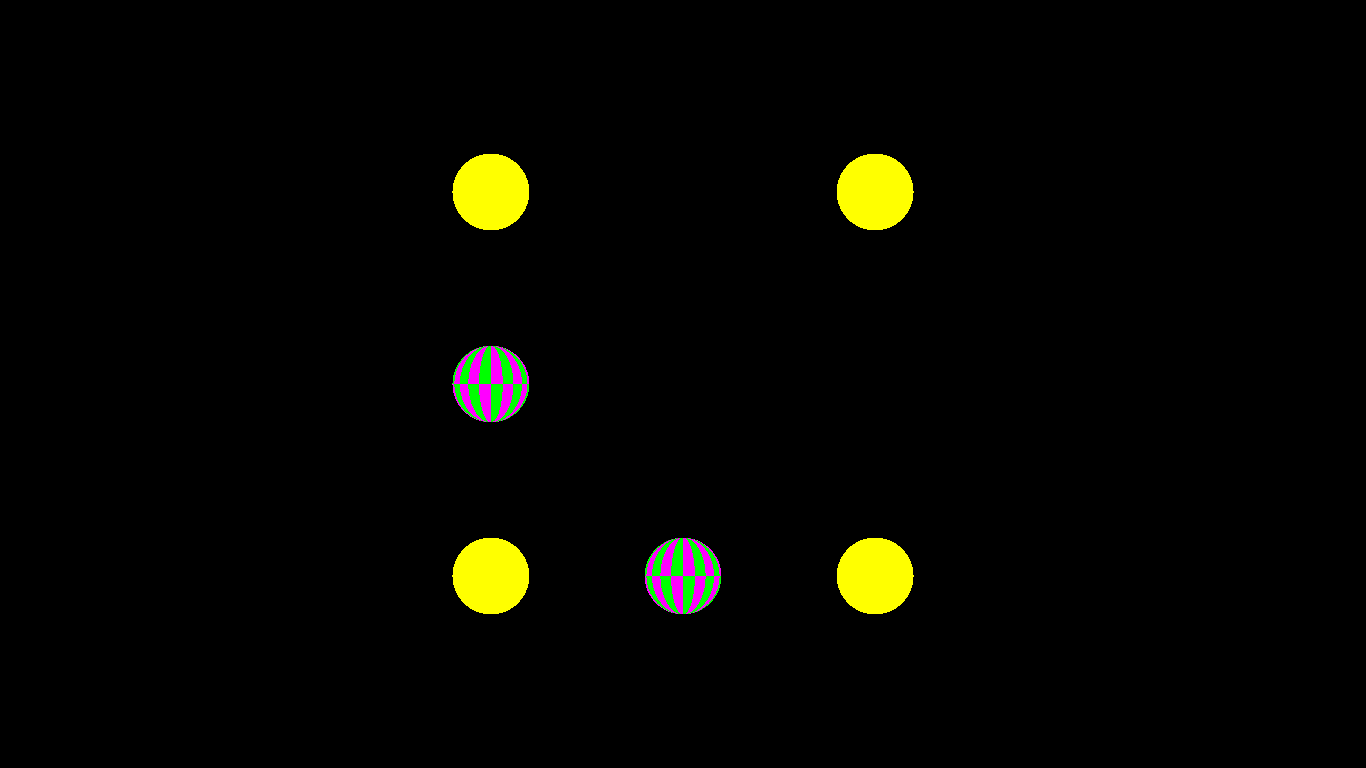
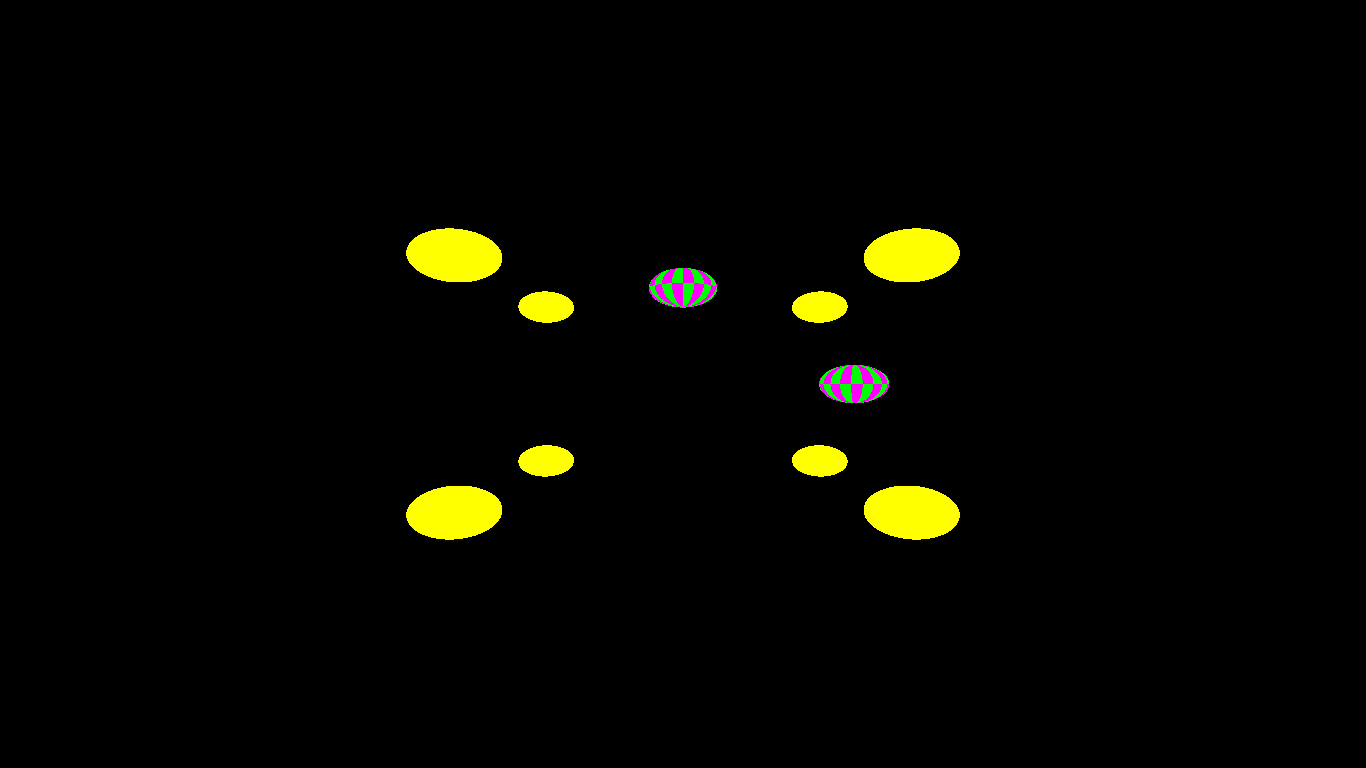
Actual implementation of fireallrays using Renderer class

diff --git a/Myraytracer/Parameters.cs b/Myraytracer/Parameters.cs
@@ -57,7 +57,7 @@ namespace Myraytracer
         public int Height { get; private set; } = 768;
         public float AngleDeg { get; private set; }
         public Camera Camera { get; private set; } = 
-            new PerspectiveProjection(16/9f, transform: Transformation.Translation(new Vec(-1, 0,0)));
+            new PerspectiveProjection(transform: Transformation.Translation(new Vec(-1, 0,0)));
         public string OutputLdrFileName { get; private set; } = "Demo.png";
         public string OutputPfmFileName { get; private set; } = "Demo.pfm";
 
@@ -119,11 +119,11 @@ namespace Myraytracer
                     var input = args[1].Trim();
                     if (input.Equals("PerspectiveProjection", StringComparison.OrdinalIgnoreCase))
                     {
-                        Camera = new PerspectiveProjection(transform: Transformation.Translation(new Vec(-1, 0,0))*Transformation.RotationX(value));
+                        Camera = new PerspectiveProjection(transform: Transformation.RotationX(value) * Transformation.Translation(new Vec(-1, 0,0)));
                     }
                     else if (input.Equals("OrthogonalProjection", StringComparison.OrdinalIgnoreCase))
                     {
-                        Camera = new OrthogonalProjection(transform: Transformation.Translation(new Vec(-1, 0,0))*Transformation.RotationX(value));
+                        Camera = new OrthogonalProjection(transform: Transformation.RotationX(value) * Transformation.Translation(new Vec(-1, 0,0)));
                     }
                     else
                     {

diff --git a/Trace/Renderer.cs b/Trace/Renderer.cs
@@ -27,10 +27,14 @@ public class OnOffRenderer : Renderer
     public Color OnColor;
     
     public OnOffRenderer(World world, Color onColor) : base(world) { OnColor = onColor; }
+    
+    public OnOffRenderer(World world, Color backgroundColor, Color onColor) : 
+        base(world, backgroundColor) 
+            { OnColor = onColor; }
 
     public override Color Render(Ray ray)
     {
-        return World.ray_intersection(ray) != null ? Color.White : Color.Black;
+        return World.ray_intersection(ray) != null ? OnColor : BackgroundColor;
     }
 }
 
@@ -38,12 +42,18 @@ public class OnOffRenderer : Renderer
 public class FlatRenderer : Renderer{
     
     public FlatRenderer(World world, Color backgroundColor) : base(world, backgroundColor){}
-    
+    public FlatRenderer(World world) : base(world)
+    {
+    }
+
+
     public override Color Render(Ray ray){
         var hit = World.ray_intersection(ray);
         if(hit == null) return BackgroundColor;
-        var material = hit.Material;
-        return material != null ? material.Brdf.Pigment.GetColor(hit.SurfacePoint) : BackgroundColor;
-        //return (material.Brdf.Pigment.GetColor(hit.SurfacePoint)) + material.EmittedRadiance.GetColor(hit.SurfacePoint));
+        var material = hit.Material!;
+        var pigmentColor = material.Pigment.GetColor(hit.SurfacePoint); 
+        return pigmentColor;
+
     }
+
 }

diff --git a/Myraytracer/Myraytracer.cs b/Myraytracer/Myraytracer.cs
@@ -116,18 +116,12 @@ internal static class Program
         var imgMaterial = new Material{Pigment = new ImagePigment(HdrImage.ReadPfm(fileStream))};
 
         scene.AddShape(new Sphere(radius: .2f, material: imgMaterial));
-
-
-        // Observer e tracer: orbit attorno al centro
-        var observer = new PerspectiveProjection(
-            transform:
-                Transformation.RotationZ(parameters.AngleDeg)
-                * Transformation.Translation(new Vec(-1, 0, 0)));
         */
 
         var image  = new HdrImage(parameters.Width, parameters.Height);
         var tracer = new ImageTracer(image, parameters.Camera);
-        tracer.FireAllRaysFlat(scene);
+        var render = new FlatRenderer(scene);
+        tracer.FireAllRays(scene, render.Render);
 
         // --- OUTPUT PATHS DA PARAMETRI ---
         var ldrPath = parameters.OutputLdrFileName;

diff --git a/Trace/ImageTracer.cs b/Trace/ImageTracer.cs
@@ -56,6 +56,25 @@ public class ImageTracer
         }
     }
     
+    public void FireAllRays(World? scene, Func <Ray, Color> func)
+    {
+        if (scene == null)
+        {
+            Image.SetAllPixels(Color.Black);
+            return;
+        }
+        
+        for (var row = 0; row < Image.Height; row++)
+        {
+            for (var col = 0; col < Image.Width; col++)
+            {
+                var ray = FireRay(col, row);
+                var color = func(ray);
+                Image.SetPixel(col, row, color);
+            }
+        }
+    }
+    /*
     public void FireAllRaysBw(World? scene)
     {
         if (scene == null)
@@ -112,4 +131,5 @@ public class ImageTracer
 
         return pigmentColor;
     }
+    */
 }
